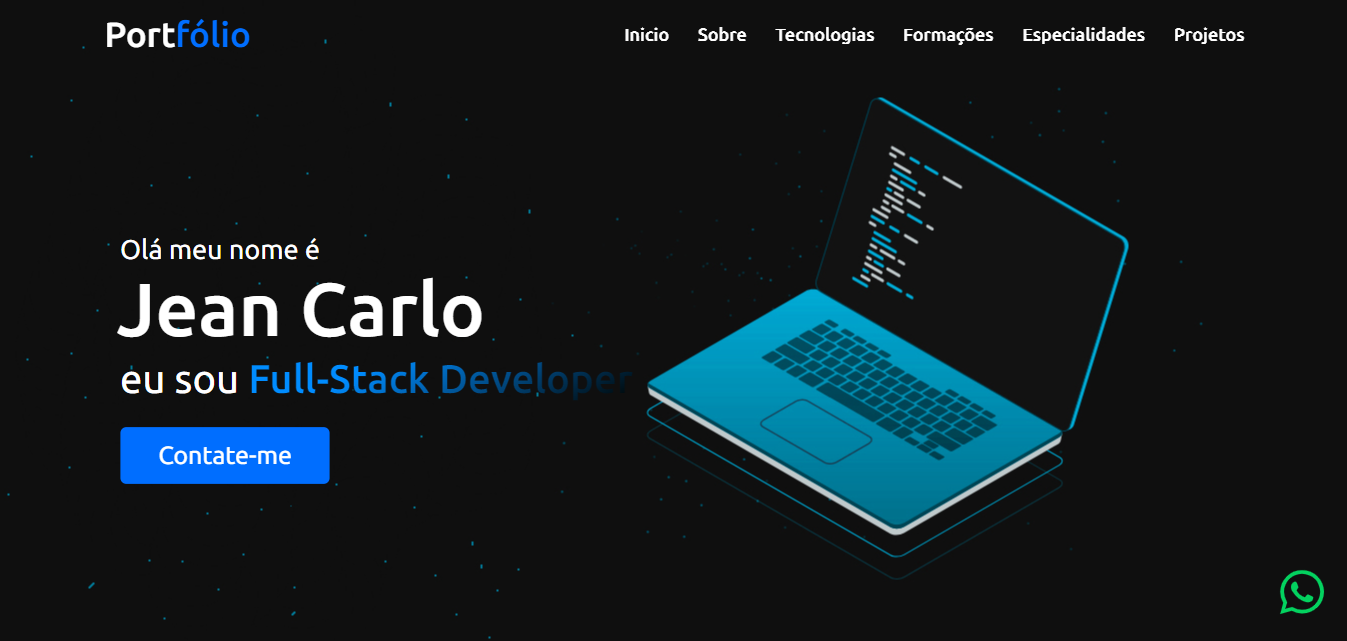
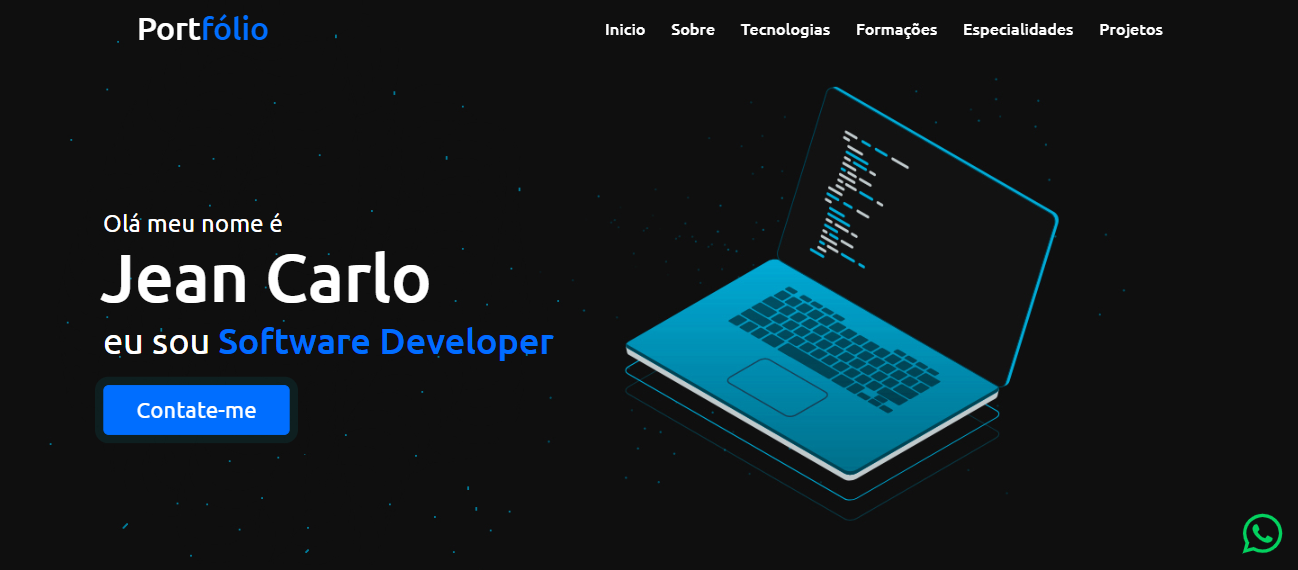
Atualizando o README

diff --git a/README.md b/README.md
@@ -4,7 +4,7 @@
 
 <h6 align="center"><a href="https://jean-carlo-torres.github.io/portfolio/">**Link para testar o projeto**</a></h6>
 
-<img src="./assets/img/tela-principal.png">
+<img src="./assets/img/portfolio_gif.gif">
 
 ## Tecnologias utilizadas no projeto
 * HTML
